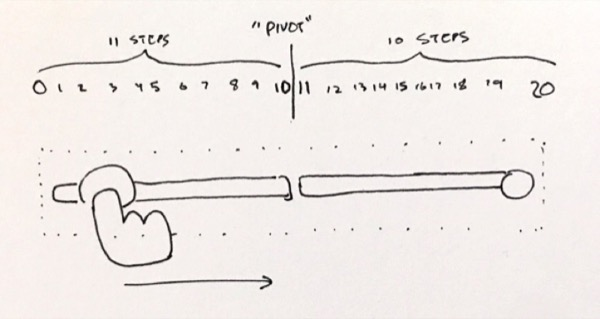
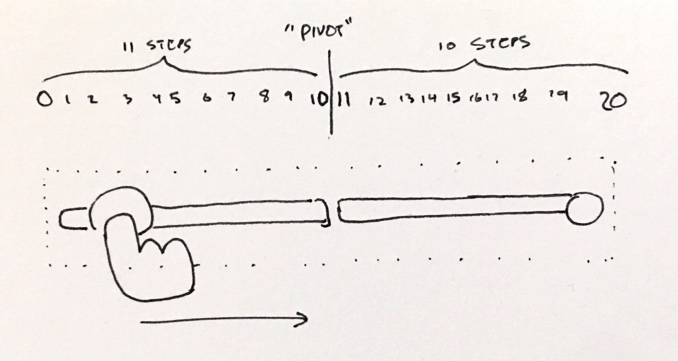
convert to jpg

diff --git a/blog/_posts/2022-08-28-korean-history-podcast.md b/blog/_posts/2022-08-28-korean-history-podcast.md
@@ -2,7 +2,7 @@
 title: "Summary: Podcast on Recent Korean History"
 excerpt: "This excellent podcast series touches on Korean isolationism, Japanese occupation, Russian and US involvement, and the Korean war"
 color: rgb(21, 124, 189)
-banner: //simple.gy/img/lexica-korea.png
+banner: //simple.gy/img/lexica-korea.jpg
 bannerCaption: "Image from Lexica Art. AI-generated by Stable Diffusion"
 ---
 
